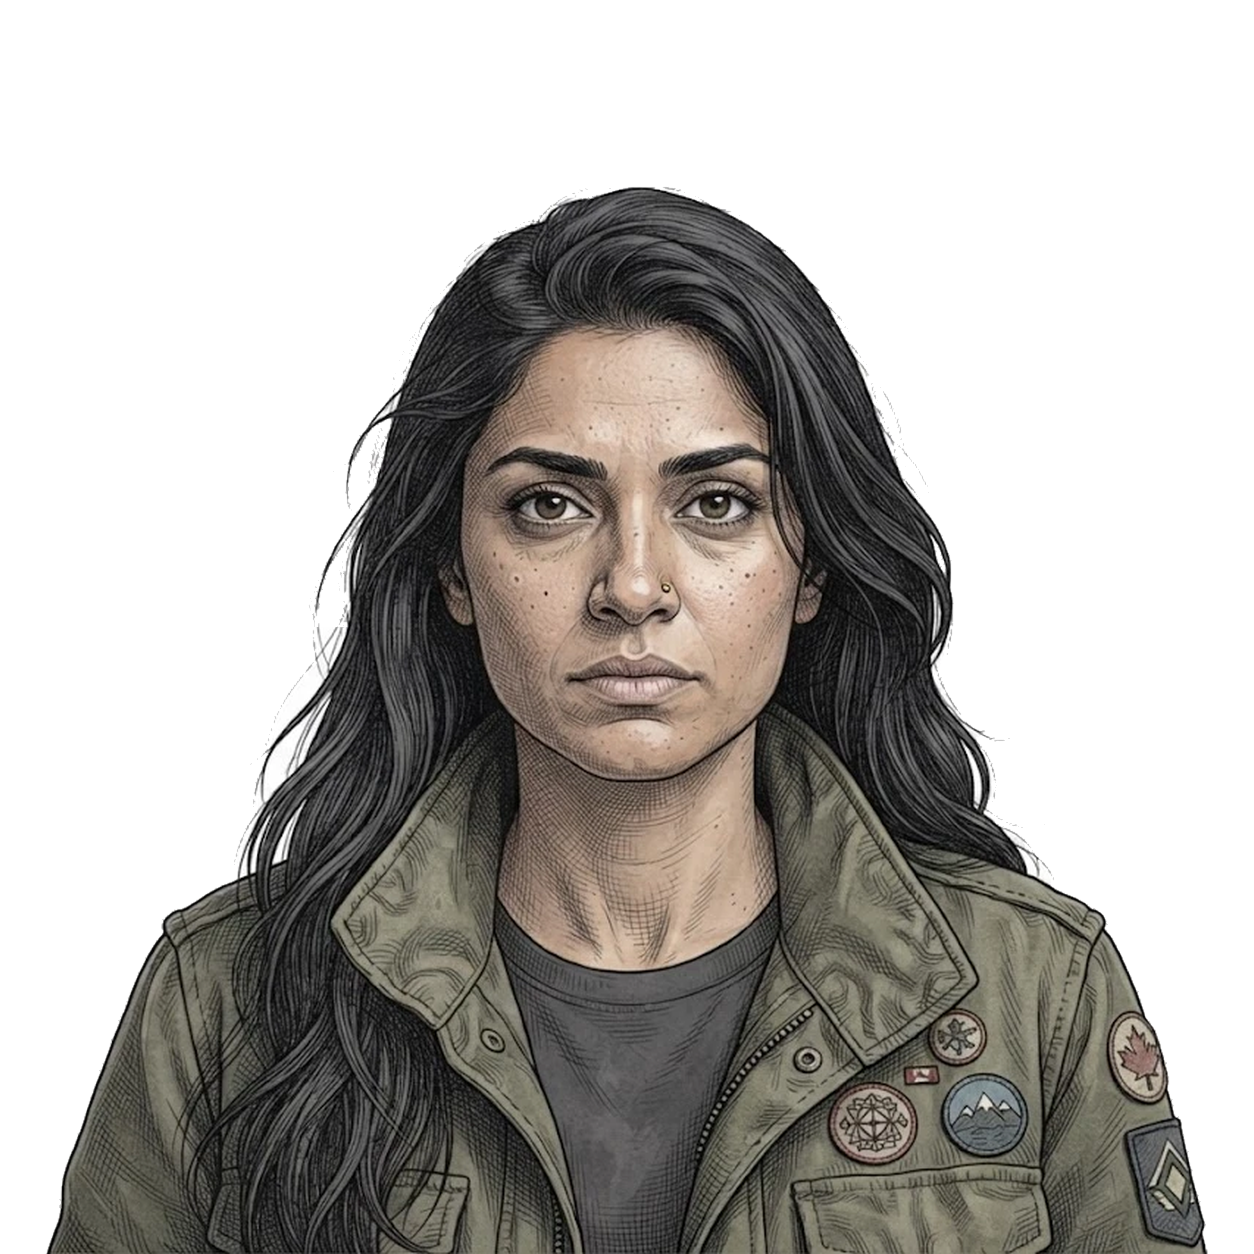
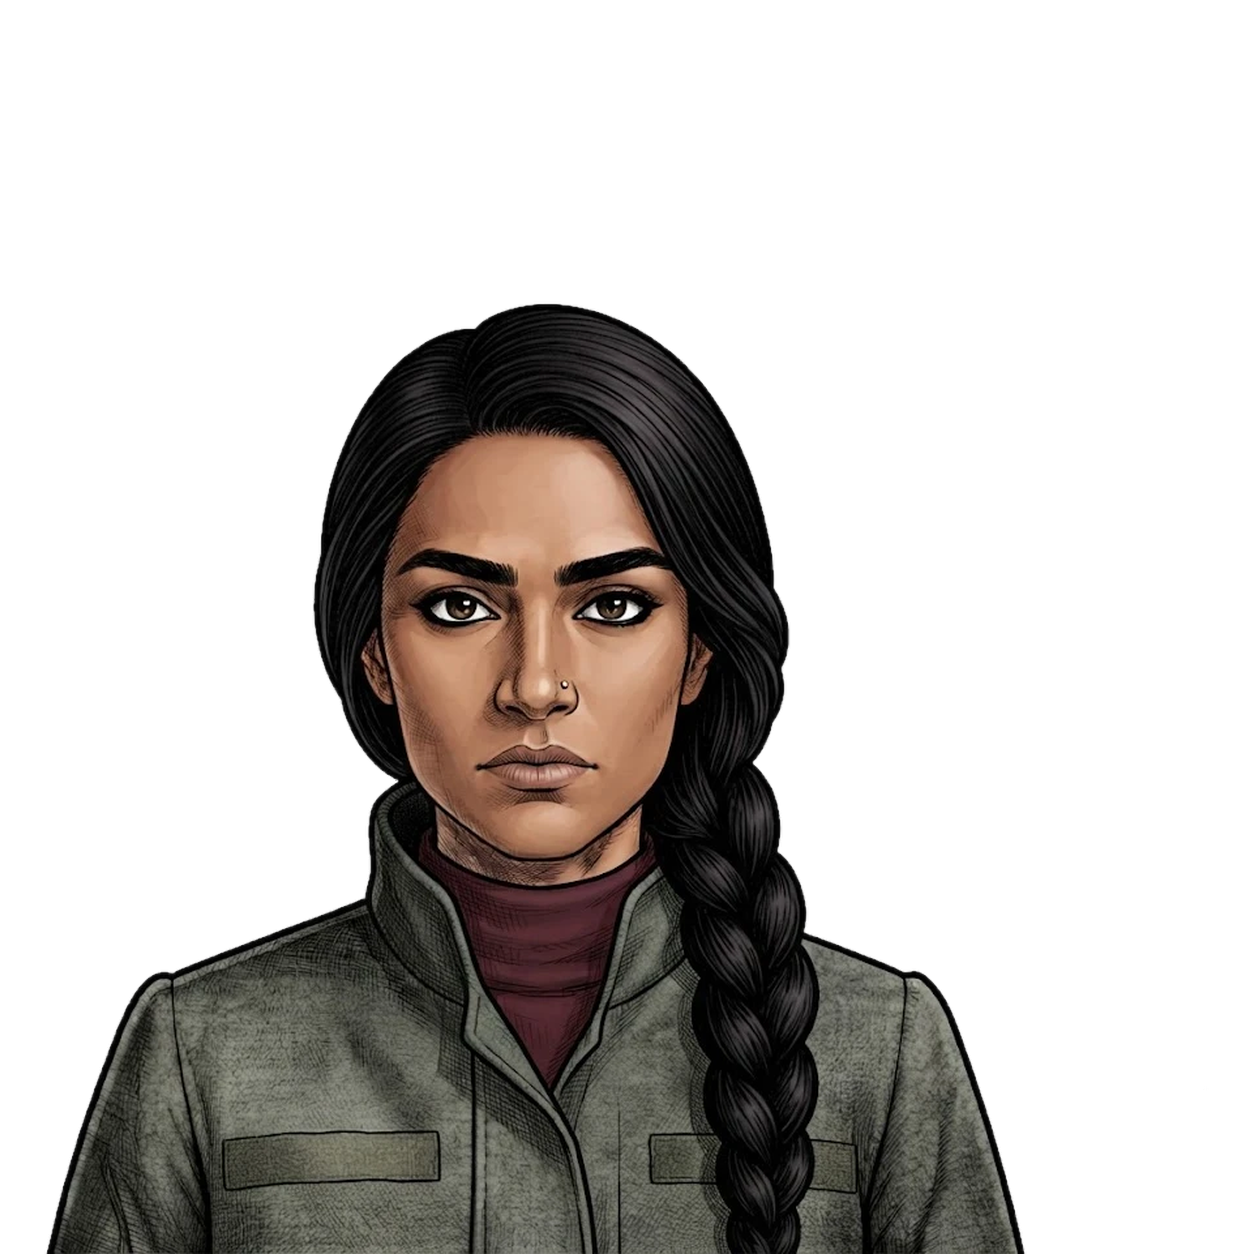
Portre: farah (farklı yüz, halesiz)

diff --git a/Docs/IMAGE_REDO_PROMPTS.md b/Docs/IMAGE_REDO_PROMPTS.md
@@ -318,13 +318,13 @@ A 24-year-old French-Canadian woman, copper hair in a neat tight bun, freckles, 
 A 38-year-old Chinese-Canadian woman, long straight black hair, a camera strap across her chest, a composed grieving face. A charcoal wool coat. Head-and-shoulders portrait only, arms and hands not visible, no table, facing the camera directly, eyes looking at the viewer, neutral seated posture as if across an interrogation table. Detailed ink-line graphic-novel illustration with soft painted shading, muted realistic colours, same style as a gritty detective game character sheet. Plain solid pure white background, no shadow on the background, no text, no border, no badges or insignia. CUTOUT RULES: the whole figure is surrounded by one bold, continuous, dark black ink outline with no gaps; hair is drawn as solid, dark-shaded masses with crisp outlined edges, no loose flyaway strands, no wispy or translucent hair, no light-coloured highlights on the outer edge of the hair; clothing is mid-to-dark in tone, nothing white, cream or pale grey anywhere on the outer silhouette; no rim light, no glow, no soft fade, no white outline, no halo around the figure; the background is flat pure white #FFFFFF and touches the dark outline directly.
 ```
 
-## Farah Siddiqui → `Characters/farah.png`
+## ✅ Farah Siddiqui → `Characters/farah.png`
 
 ```
 A 30-year-old Pakistani-Canadian woman, long dark hair, smooth, tucked behind the shoulders, a nose stud, a fierce passionate face. A green canvas utility jacket with patches that have no text. Head-and-shoulders portrait only, arms and hands not visible, no table, facing the camera directly, eyes looking at the viewer, neutral seated posture as if across an interrogation table. Detailed ink-line graphic-novel illustration with soft painted shading, muted realistic colours, same style as a gritty detective game character sheet. Plain solid pure white background, no shadow on the background, no text, no border, no badges or insignia. CUTOUT RULES: the whole figure is surrounded by one bold, continuous, dark black ink outline with no gaps; hair is drawn as solid, dark-shaded masses with crisp outlined edges, no loose flyaway strands, no wispy or translucent hair, no light-coloured highlights on the outer edge of the hair; clothing is mid-to-dark in tone, nothing white, cream or pale grey anywhere on the outer silhouette; no rim light, no glow, no soft fade, no white outline, no halo around the figure; the background is flat pure white #FFFFFF and touches the dark outline directly.
 ```
 
-## Farah Siddiqui (v2 — farklı yüz) → `Characters/farah.png`
+## ✅ Farah Siddiqui (v2 — farklı yüz) → `Characters/farah.png`
 
 Önceki deneme Grace Kwan ile aynı yüzü verdi. Yüz yapısı açıkça farklı tarif edildi.
 
